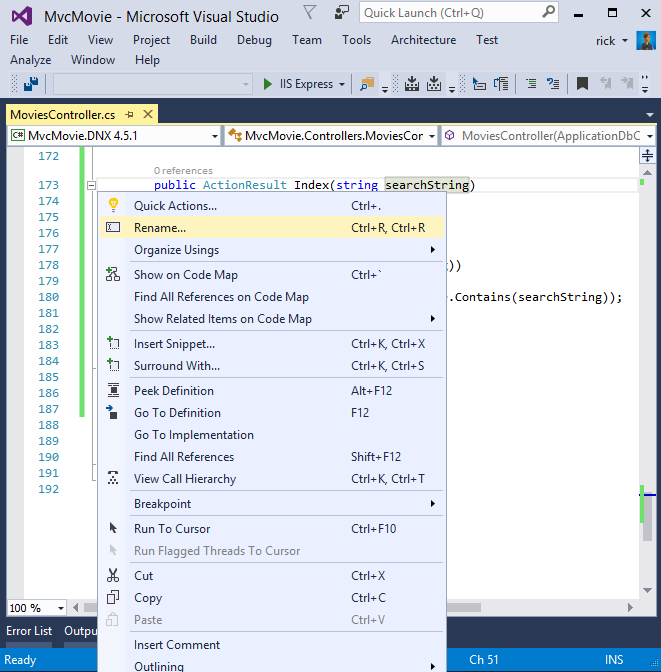
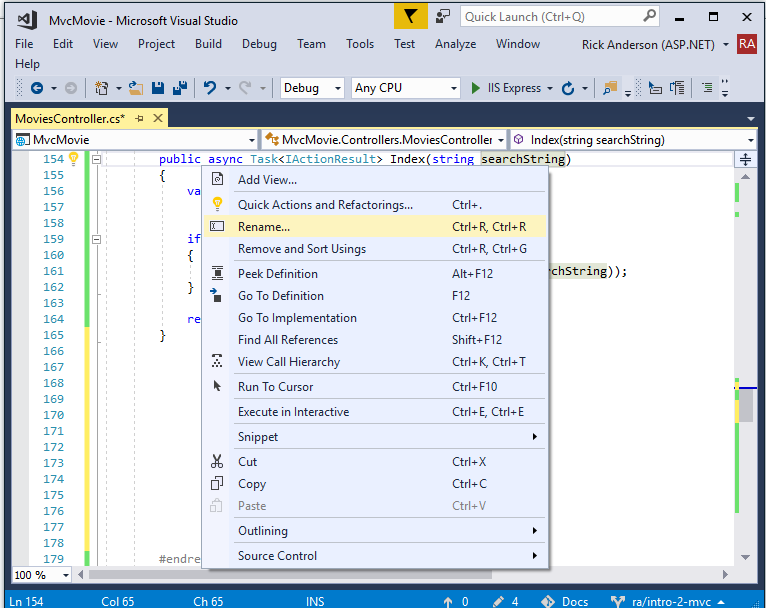
search

diff --git a/aspnetcore/tutorials/first-mvc-app/start-mvc/sample/MvcMovie/Controllers/MoviesController.cs b/aspnetcore/tutorials/first-mvc-app/start-mvc/sample/MvcMovie/Controllers/MoviesController.cs
@@ -1,11 +1,15 @@
-using System;
-using System.Collections.Generic;
-using System.Linq;
-using System.Threading.Tasks;
+//#define snippet_1stSearch
+//#define snippet_SearchID
+#define snippet_SearchGenre
+
+
 using Microsoft.AspNetCore.Mvc;
 using Microsoft.AspNetCore.Mvc.Rendering;
 using Microsoft.EntityFrameworkCore;
 using MvcMovie.Models;
+using System;
+using System.Linq;
+using System.Threading.Tasks;
 
 namespace MvcMovie.Controllers
 {
@@ -16,12 +20,6 @@ namespace MvcMovie.Controllers
         public MoviesController(MvcMovieContext context)
         {
             _context = context;
-        }
-
-        // GET: Movies
-        public async Task<IActionResult> Index()
-        {
-            return View(await _context.Movie.ToListAsync());
         }
 
         #region snippet_details
@@ -150,5 +148,106 @@ namespace MvcMovie.Controllers
         {
             return _context.Movie.Any(e => e.ID == id);
         }
+#if snippet_1stSearch
+        // First Search
+        #region snippet_1stSearch
+
+
+        public async Task<IActionResult> Index(string searchString)
+        {
+            var movies = from m in _context.Movie
+                         select m;
+
+            if (!String.IsNullOrEmpty(searchString))
+            {
+                movies = movies.Where(s => s.Title.Contains(searchString));
+            }
+
+            return View(await movies.ToListAsync());
+        }
+
+
+
+
+
+
+
+
+
+
+
+
+
+        #endregion
+        // End first Search
+#endif
+
+#if snippet_SearchID
+        // Search ID 
+        #region snippet_SearchID
+        public async Task<IActionResult> Index(string id)
+        {
+            var movies = from m in _context.Movie
+                         select m;
+
+        #region snippet_SearchNull
+            if (!String.IsNullOrEmpty(id))
+            {
+                movies = movies.Where(s => s.Title.Contains(id));
+            }
+        #endregion
+
+            return View(await movies.ToListAsync());
+        }
+        #endregion
+        // End search ID
+#endif
+
+#if SearchPost
+        // Search Post
+        #region snippet_SearchPost
+        [HttpPost]
+        public string Index(string searchString, bool notUsed)
+        {
+            return "From [HttpPost]Index: filter on " + searchString;
+        }
+        #endregion
+        // End SP
+#endif
+
+#if snippet_SearchGenre
+        // Search by genre.
+        #region snippet_SearchGenre
+        // Requires using Microsoft.AspNetCore.Mvc.Rendering;
+        public async Task<IActionResult> Index(string movieGenre, string searchString)
+        {
+            #region snippet_LINQ
+            // Use LINQ to get list of genres.
+            IQueryable<string> genreQuery = from m in _context.Movie
+                                            orderby m.Genre
+                                            select m.Genre;
+            #endregion
+
+            var movies = from m in _context.Movie
+                         select m;
+
+            if (!String.IsNullOrEmpty(searchString))
+            {
+                movies = movies.Where(s => s.Title.Contains(searchString));
+            }
+
+            if (!String.IsNullOrEmpty(movieGenre))
+            {
+                movies = movies.Where(x => x.Genre == movieGenre);
+            }
+
+            var movieGenreVM = new MovieGenreViewModel();
+            movieGenreVM.genres = new SelectList(await genreQuery.Distinct().ToListAsync());
+            movieGenreVM.movies = await movies.ToListAsync();
+
+            return View(movieGenreVM);
+        }
+        #endregion
+#endif
     }
 }

diff --git a/aspnetcore/tutorials/first-mvc-app/search.md b/aspnetcore/tutorials/first-mvc-app/search.md
@@ -1,11 +1,11 @@
 ---
 title: Adding Search | Microsoft Docs
 author: rick-anderson
-description: 
+description: Shows how to add search to simple ASP.NET Core MVC app
 keywords: ASP.NET Core,
 ms.author: riande
 manager: wpickett
-ms.date: 10/14/2016
+ms.date: 03/07/2017
 ms.topic: article
 ms.assetid: d69e5529-8ef6-4628-855d-200206d962b9
 ms.technology: aspnet
@@ -29,23 +29,15 @@ var movies = from m in _context.Movie
              select m;
 ```
 
-The query is *only* defined at this point, it **has not** been run against the database.
+The query is *only* defined at this point, it has **not** been run against the database.
 
-If the `searchString` parameter contains a string, the movies query is modified to filter on the value of the search string, using the following code:
+If the `searchString` parameter contains a string, the movies query is modified to filter on the value of the search string:
 
-<!-- literal_block {"ids": [], "linenos": false, "xml:space": "preserve", "language": "csharp", "highlight_args": {"hl_lines": [3]}} -->
+[!code-csharp[Main](start-mvc/sample/MvcMovie/Controllers/MoviesController.cs?name=snippet_SearchNull)]
 
-```csharp
-if (!String.IsNullOrEmpty(searchString))
-{
-    movies = movies.Where(s => s.Title.Contains(searchString));
-}
-```
+The `s => s.Title.Contains()` code above is a [Lambda Expression](http://msdn.microsoft.com/en-us/library/bb397687.aspx). Lambdas are used in method-based [LINQ](http://msdn.microsoft.com/en-us/library/bb397926.aspx) queries as arguments to standard query operator methods such as the [Where](http://msdn.microsoft.com/en-us/library/system.linq.enumerable.where.aspx) method or `Contains` (used in the code above). LINQ queries are not executed when they are defined or when they are modified by calling a method such as `Where`, `Contains`  or `OrderBy`. Rather, query execution is deferred.  That means that the evaluation of an expression is delayed until its realized value is actually iterated over or the `ToListAsync` method is called. For more information about deferred query execution, see [Query Execution](http://msdn.microsoft.com/en-us/library/bb738633.aspx).
 
-The `s => s.Title.Contains()` code above is a [Lambda Expression](http://msdn.microsoft.com/en-us/library/bb397687.aspx). Lambdas are used in method-based [LINQ](http://msdn.microsoft.com/en-us/library/bb397926.aspx) queries as arguments to standard query operator methods such as the [Where](http://msdn.microsoft.com/en-us/library/system.linq.enumerable.where.aspx) method or `Contains` used in the code above. LINQ queries are not executed when they are defined or when they are modified by calling a method such as `Where`, `Contains`  or `OrderBy`. Instead, query execution is deferred, which means that the evaluation of an expression is delayed until its realized value is actually iterated over or the `ToListAsync` method is called. For more information about deferred query execution, see [Query Execution](http://msdn.microsoft.com/en-us/library/bb738633.aspx).
-
-> [!NOTE]
-> The [Contains](http://msdn.microsoft.com/en-us/library/bb155125.aspx) method is run on the database, not the c# code above. On the database, [Contains](http://msdn.microsoft.com/en-us/library/bb155125.aspx) maps to [SQL LIKE](http://msdn.microsoft.com/en-us/library/ms179859.aspx), which is case insensitive.
+Note: The [Contains](http://msdn.microsoft.com/en-us/library/bb155125.aspx) method is run on the database, not the c# code above. On the database, [Contains](http://msdn.microsoft.com/en-us/library/bb155125.aspx) maps to [SQL LIKE](http://msdn.microsoft.com/en-us/library/ms179859.aspx), which is case insensitive.
 
 Navigate to `/Movies/Index`. Append a query string such as `?searchString=ghost` to the URL. The filtered movies are displayed.
 
@@ -53,7 +45,7 @@ Navigate to `/Movies/Index`. Append a query string such as `?searchString=ghost`
 
 If you change the signature of the `Index` method to have a parameter named `id`, the `id` parameter will match the optional `{id}` placeholder for the default routes set in *Startup.cs*.
 
-[!code-csharp[Main](./start-mvc/sample2/src/MvcMovie/Startup.cs?highlight=5&name=snippet_1)]
+[!code-csharp[Main](start-mvc/sample/MvcMovie/Startup.cs?highlight=5&name=snippet_1)]
 
 You can quickly rename the `searchString` parameter to `id` with the **rename** command. Right click on `searchString` **> Rename**.
 
@@ -69,11 +61,11 @@ Change the parameter to `id` and all occurrences of `searchString` change to `id
 
 The previous `Index` method:
 
-[!code-csharp[Main](./start-mvc/sample2/src/MvcMovie/Controllers/MoviesController.cs?highlight=1,8&name=snippet_1stSearch)]
+[!code-csharp[Main](start-mvc/sample/MvcMovie/Controllers/MoviesController.cs?highlight=1,8&name=snippet_1stSearch)]
 
 The updated `Index` method:
 
-[!code-csharp[Main](./start-mvc/sample2/src/MvcMovie/Controllers/MoviesController.cs?highlight=1,8&name=snippet_SearchID)]
+[!code-csharp[Main](start-mvc/sample/MvcMovie/Controllers/MoviesController.cs?highlight=1,8&name=snippet_SearchID)]
 
 You can now pass the search title as route data (a URL segment) instead of as a query string value.
 
@@ -81,11 +73,11 @@ You can now pass the search title as route data (a URL segment) instead of as a 
 
 However, you can't expect users to modify the URL every time they want to search for a movie. So now you'll add UI to help them filter movies. If you changed the signature of the `Index` method to test how to pass the route-bound `ID` parameter, change it back so that it takes a parameter named `searchString`:
 
-[!code-csharp[Main](./start-mvc/sample2/src/MvcMovie/Controllers/MoviesController.cs?highlight=1&name=snippet_1stSearch)]
+[!code-csharp[Main](start-mvc/sample/MvcMovie/Controllers/MoviesController.cs?highlight=1&name=snippet_1stSearch)]
 
 Open the *Views/Movies/Index.cshtml* file, and add the `<form>` markup highlighted below:
 
-[!code-HTML[Main](../../tutorials/first-mvc-app/start-mvc/sample2/src/MvcMovie/Views/Movies/IndexForm1.cshtml?highlight=11,12,13,14,15,16&range=4-21)]
+[!code-HTML[Main](start-mvc/sample/MvcMovie/Views/Movies/IndexForm1.cshtml?highlight=11,12,13,14,15,16&range=4-21)]
 
 The HTML `<form>` tag uses the [Form Tag Helper](../../mvc/views/working-with-forms.md), so when you submit the form, the filter string is posted to the `Index` action of the movies controller. Save your changes and then test the filter.
 
@@ -95,7 +87,7 @@ There's no `[HttpPost]` overload of the `Index` method as you might expect. You 
 
 You could add the following `[HttpPost] Index` method.
 
-[!code-csharp[Main](./start-mvc/sample2/src/MvcMovie/Controllers/MoviesController.cs?highlight=1&name=snippet_SearchPost)]
+[!code-csharp[Main](start-mvc/sample/MvcMovie/Controllers/MoviesController.cs?highlight=1&name=snippet_SearchPost)]
 
 The `notUsed` parameter is used to create an overload for the `Index` method. We'll talk about that later in the tutorial.
 
@@ -135,27 +127,21 @@ The following markup shows the change to the `form` tag:
 
 Add the following `MovieGenreViewModel` class to the *Models* folder:
 
-[!code-csharp[Main](start-mvc/sample2/src/MvcMovie/Models/MovieGenreViewModel.cs)]
+[!code-csharp[Main](start-mvc/sample/MvcMovie/Models/MovieGenreViewModel.cs)]
 
 The movie-genre view model will contain:
 
-   * a list of movies
-
-   * a `SelectList` containing the list of genres. This will allow the user to select a genre from the list.
-
-   * `movieGenre`, which contains the selected genre
+   * A list of movies.
+   * A `SelectList` containing the list of genres. This will allow the user to select a genre from the list.
+   * `movieGenre`, which contains the selected genre.
 
 Replace the `Index` method in `MoviesController.cs` with the following code:
 
-[!code-csharp[Main](start-mvc/sample2/src/MvcMovie/Controllers/MoviesController.cs?name=snippet_SearchGenre)]
+[!code-csharp[Main](start-mvc/sample/MvcMovie/Controllers/MoviesController.cs?name=snippet_SearchGenre)]
 
 The following code is a `LINQ` query that retrieves all the genres from the database.
 
-```csharp
-IQueryable<string> genreQuery = from m in _context.Movie
-                                   orderby m.Genre
-                                   select m.Genre;
-   ```
+[!code-csharp[Main](start-mvc/sample/MvcMovie/Controllers/MoviesController.cs?name=snippet_LINQ)]
 
 The `SelectList` of genres is created by projecting the distinct genres (we don't want our select list to have duplicate genres).
 
